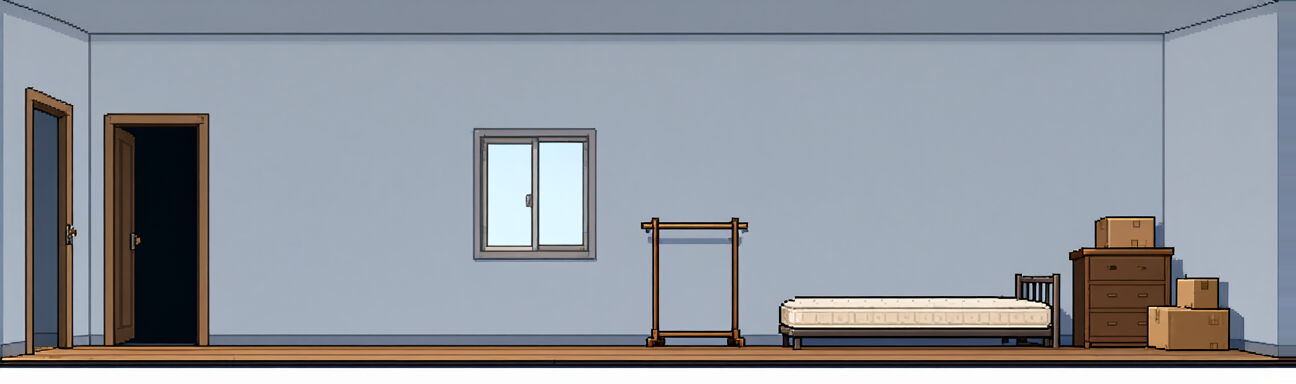
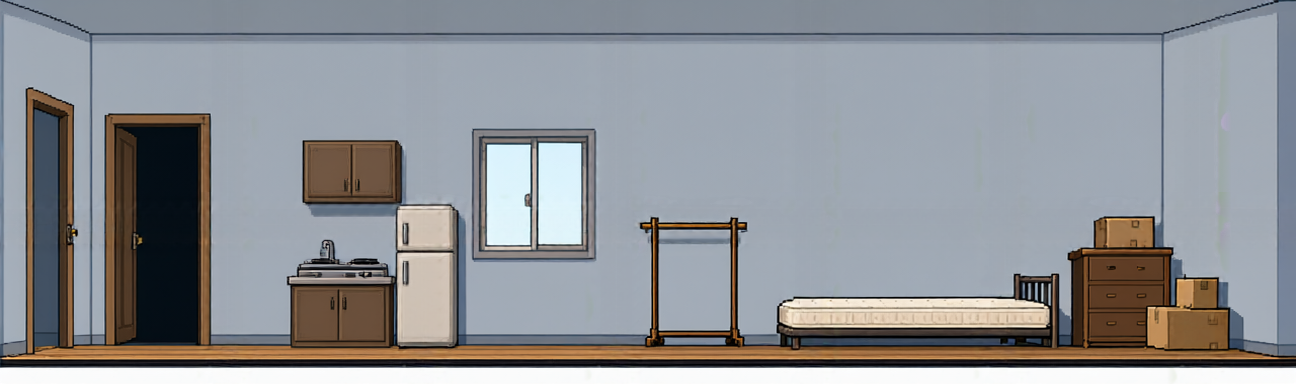
art: 3B kitchenette in the flat3b room; skill: room height 384, any width

diff --git a/.claude/skills/life-game-art/SKILL.md b/.claude/skills/life-game-art/SKILL.md
@@ -79,9 +79,10 @@ elevation (wall straight on, thin floor band), realistic adult proportions, char
 Generate **raw, no snapping**, `--raw-prompt`, text only.
 
 **Constant pixel density:** a character sprite always has the same number of pixels (the 96x192 cell), whatever the scene size.
-Scenes vary in size, the density does not. The reference is **height 576**: a 1024x576 generation is one 16:9 screen, characters
-about 1/2 of 576 high. **Keep the height at 576 and change only the width** for other rooms (tested: an empty flat at 1024, 1536 and
-2048 x 576 kept props at the same scale, fridge height within about 15%, so no stitching is needed up to about 2048x576, 1.2 MP).
+Scenes vary in size, the density does not. **Room height in the game is 384** (decided 2026-10-27, Janosch: reduced so rooms fit the character size; characters about 1/2 of 384 high;
+rooms may have any width; the current ones are 1296 wide, which is not a requirement). The concept round was done at 576, so style tests quote 576. **Keep the height fixed and change only the width** for other
+rooms (tested at 576: an empty flat at 1024, 1536 and 2048 wide kept props at the same scale, fridge height within about 15%, so no stitching
+is needed up to about 2048 wide). To restyle an existing room, `edit` the current `background.png` at its own size (keeps layout and hotspots).
 Do not raise the height with the width at the same aspect ratio (1536x864 gave smaller figures and more black, a smaller size
 chunkier ones). Taller or much wider rooms (beyond about 2048 wide) are not tested: build them from panels with about 128 px overlap.
 Characters are sprites, not part of the background; only some NPCs may be baked in.
